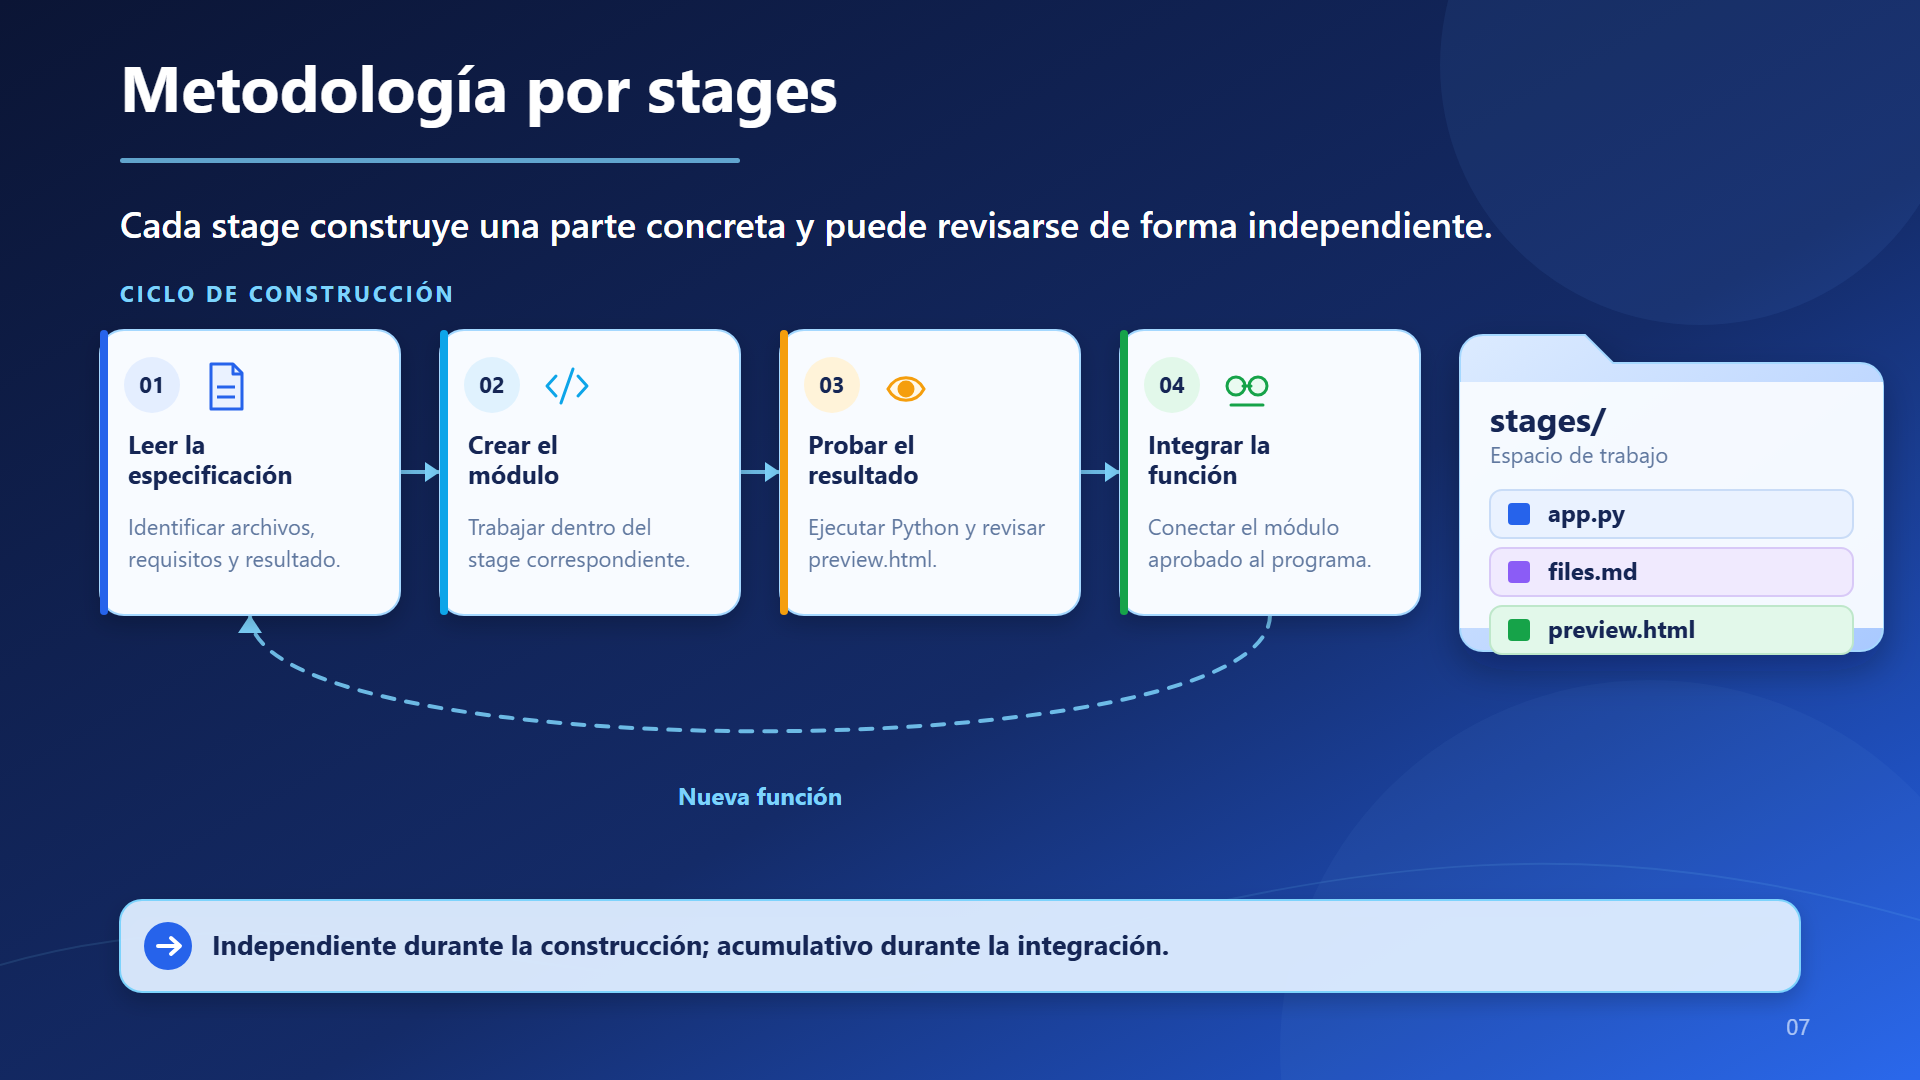
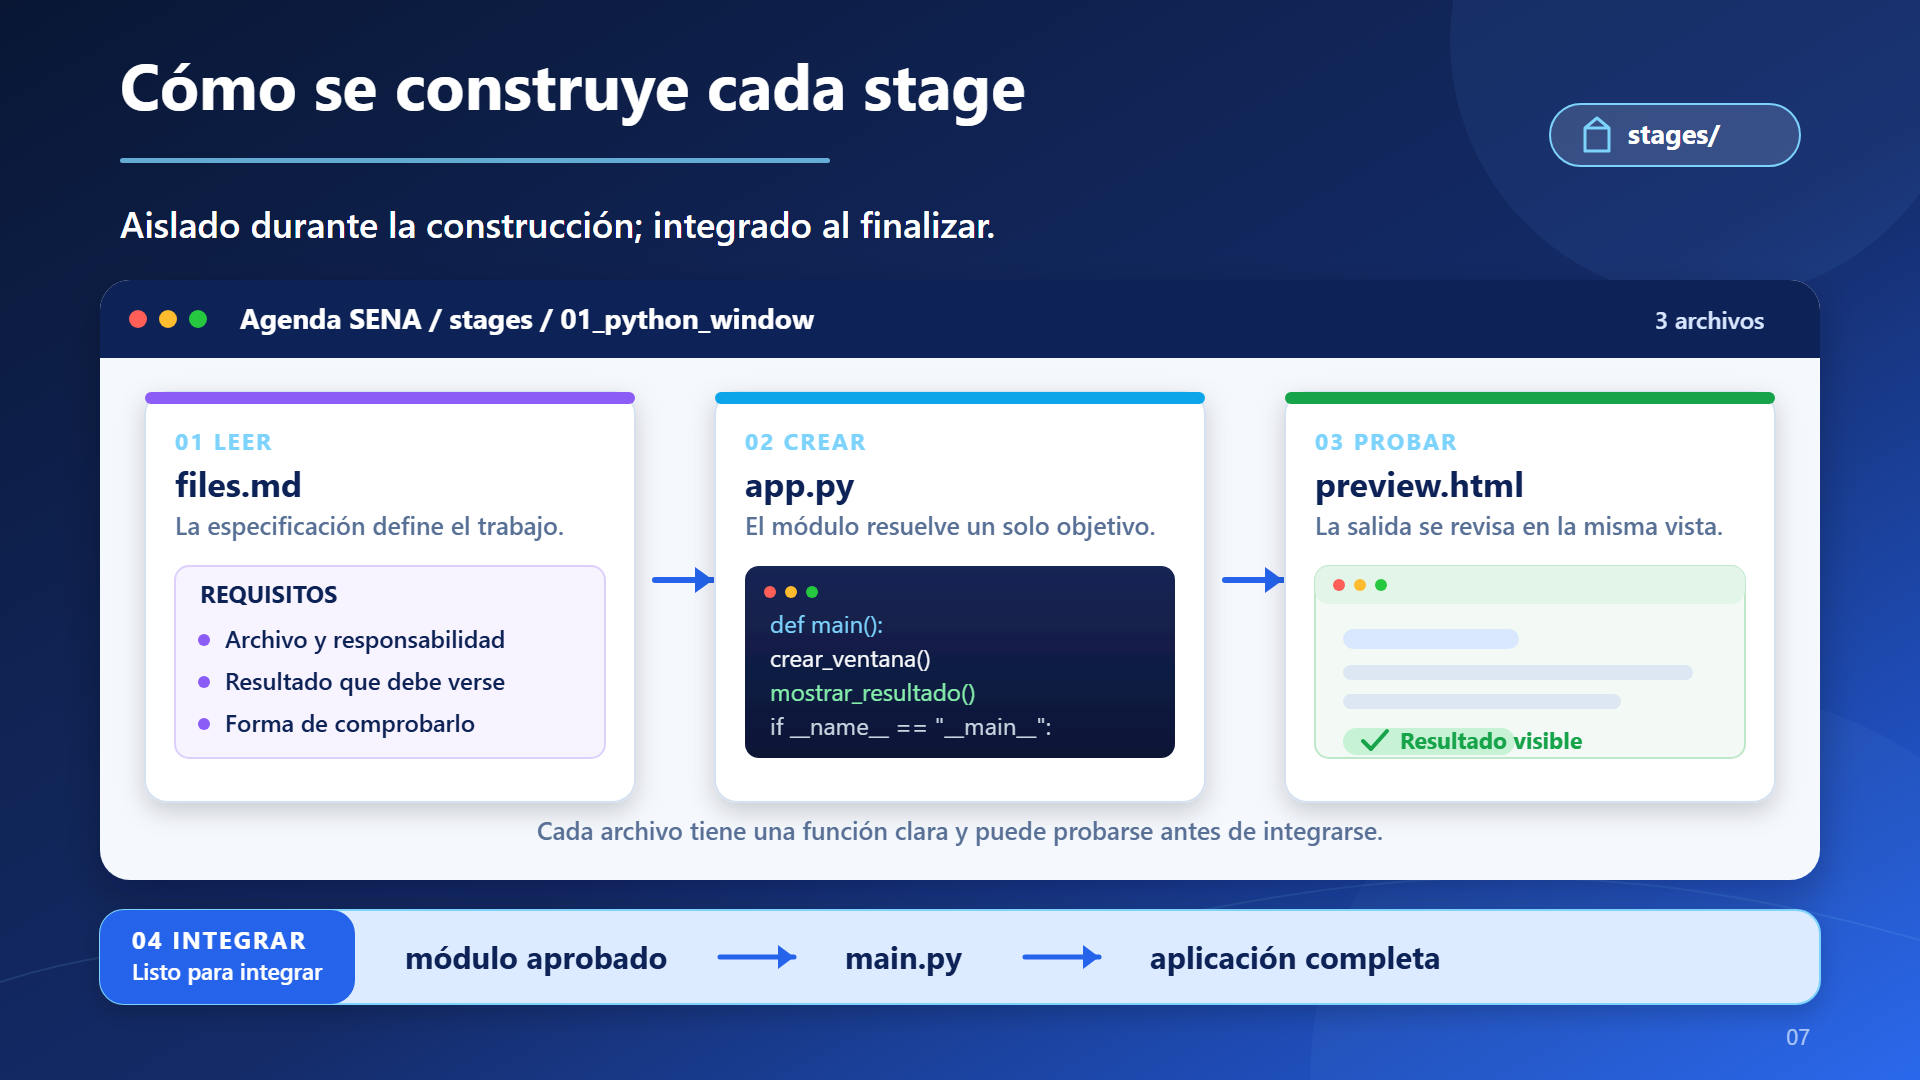
Rediseñar diapositiva 07 como flujo de trabajo

diff --git a/docs/pt/presentation.md b/docs/pt/presentation.md
@@ -425,64 +425,70 @@ docs/pt/img/06_technologies.png
 
 ---
 
-# Diapositiva 07 — Metodología por stages
+# Diapositiva 07 — Cómo se construye cada stage
 
 ## Texto literal
 
-**Metodología por stages**
+**Cómo se construye cada stage**
 
-**Cada stage construye una parte concreta del proyecto y puede revisarse de
-forma independiente.**
+**Aislado durante la construcción; integrado al finalizar.**
 
-**El ciclo de trabajo**
+**Espacio de trabajo del estudiante**
 
-**1. Leer la especificación**
+**01 — Leer `files.md`**
 
-Identificar archivos, requisitos y resultado esperado.
+La especificación define el archivo, los requisitos y el resultado que debe verse.
 
-**2. Crear el módulo**
+**02 — Crear `app.py`**
 
-Trabajar únicamente dentro de la carpeta del stage.
+El módulo resuelve un solo objetivo dentro de la carpeta del stage.
 
-**3. Probar el resultado**
+**03 — Probar `preview.html`**
 
-Ejecutar Python y revisar el `preview.html`.
+La salida se revisa en la misma vista antes de integrarla.
 
-**4. Integrar la función**
+**04 — Integrar**
 
-Conectar el módulo aprobado a la aplicación principal.
+Cuando está aprobado: módulo → `main.py` → aplicación completa.
 
 ## Frase destacada
 
-**Independiente durante la construcción; acumulativo durante la integración.**
+**Cada archivo tiene una función clara y puede probarse antes de integrarse.**
 
 ## Distribución
 
-- Mostrar cuatro pasos en forma de ciclo o recorrido horizontal.
-- Usar un color diferente para cada paso, manteniendo la misma paleta.
-- Colocar la frase destacada en una banda inferior azul claro.
-- Mostrar `stages/` como la carpeta de trabajo del estudiante.
+- Presentar una sola ventana de trabajo, como un espacio de desarrollo.
+- En la barra superior mostrar `Agenda SENA / stages / 01_python_window`.
+- Organizar tres paneles grandes y consecutivos: `files.md`, `app.py` y
+  `preview.html`.
+- Conectar los paneles con flechas amplias y verbos directos: `orienta` y
+  `construye`.
+- Separar la integración en una banda inferior: `módulo aprobado` → `main.py`
+  → `aplicación completa`.
+- Mantener el texto principal grande; los paneles deben leerse como una
+  interfaz de trabajo, no como una lista de tareas.
 
 ## Imagen o representación visual
 
-Crear un diagrama circular o de flechas con cuatro bloques:
+Crear una representación de un espacio de trabajo con tres archivos:
 
 ```text
-Especificación → Código → Prueba visual → Integración
-       ↑                                      ↓
-       └──────────── Nueva función ──────────┘
+files.md  ──orienta──>  app.py  ──construye──>  preview.html
+                                              ↓
+                  módulo aprobado → main.py → aplicación completa
 ```
 
-Al lado del diagrama colocar una carpeta ilustrada con la etiqueta
-`stages/`. La carpeta debe contener pequeñas tarjetas que representen
-`app.py`, `files.md` y `preview.html`.
+Cada panel debe parecer una herramienta real: `files.md` como una ficha de
+requisitos, `app.py` como un editor de código y `preview.html` como una vista
+de navegador con un resultado visible. La barra superior identifica la ruta
+`stages/01_python_window`.
 
 ## Iconos
 
-- Documento para la especificación.
-- Terminal o código para el módulo.
-- Ojo para la comprobación visual.
-- Piezas conectadas para la integración.
+- Documento o ficha para `files.md`.
+- Editor de código para `app.py`.
+- Navegador para `preview.html`.
+- Flechas de integración para `main.py`.
 
 ## Archivo de imagen posterior
 
